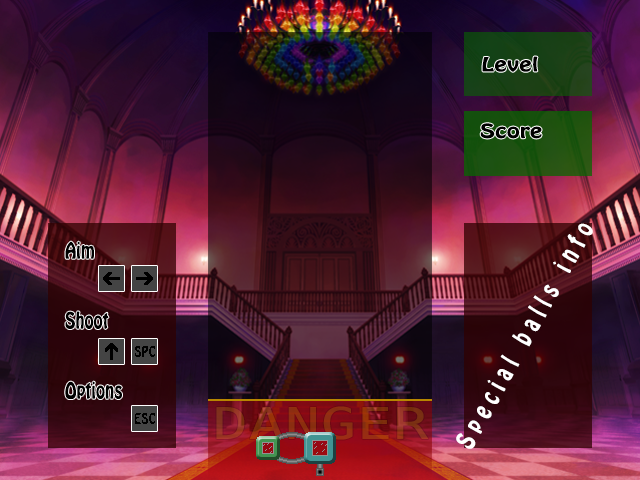
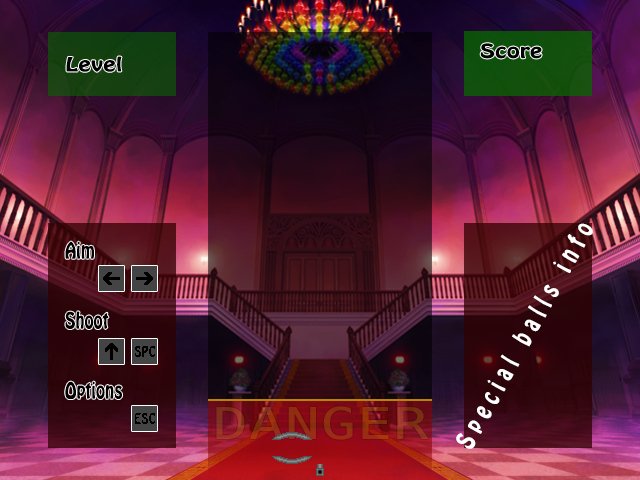
Updated level distribution

diff --git a/02-Bubble/Scene_Level.cpp b/02-Bubble/Scene_Level.cpp
@@ -16,13 +16,13 @@
 #define LAUNCH_BALL_SOUND "../media/audio/sounds/ball_launch.ogg"
 
 #define LEVEL_NUMBER_SIZE glm::vec2(24.f,24.f)
-#define LEVEL_NUMBER_POSITION glm::vec2(552.f, 52.f)
+#define LEVEL_NUMBER_POSITION glm::vec2(128.f, 52.f)
 #define LEVEL_NUMBER_SPRITESHEET_SIZE glm::vec2(16.f, 16.f)
 #define LEVEL_NUMBER_SPRITESHEET_POSITION glm::vec2(208.f, 0.f)
 
 #define INITIAL_SCORE 5000
 #define SCORE_SIZE glm::vec2(96.f, 24.f)
-#define SCORE_POSITION glm::vec2(480.f, 144.f)
+#define SCORE_POSITION glm::vec2(480.f, 65.f)
 #define SCORE_SPRITESHEET_POSITION  LEVEL_NUMBER_SPRITESHEET_POSITION
 
 
